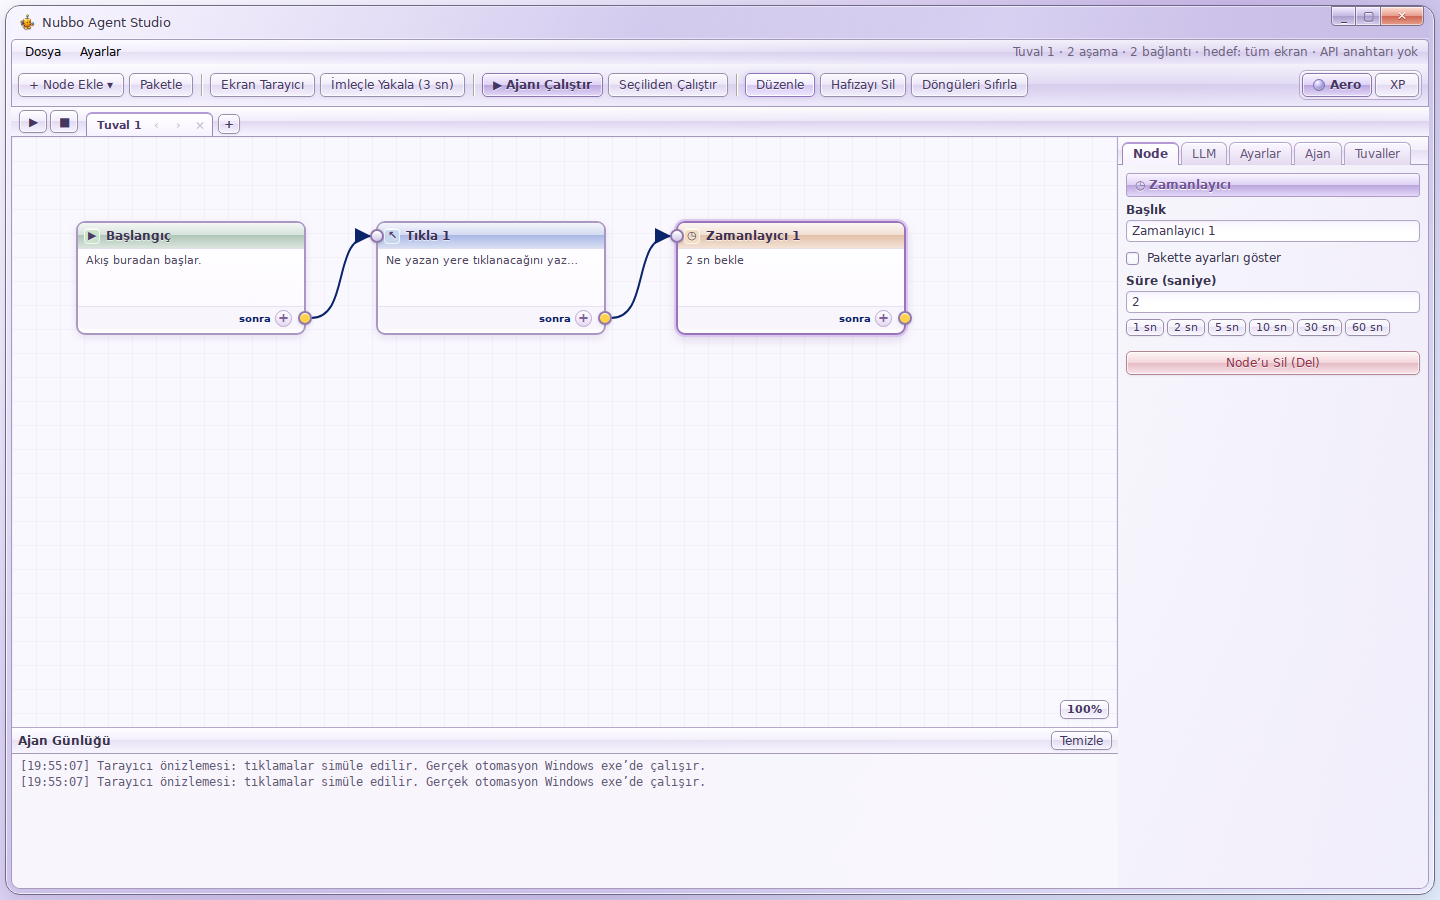
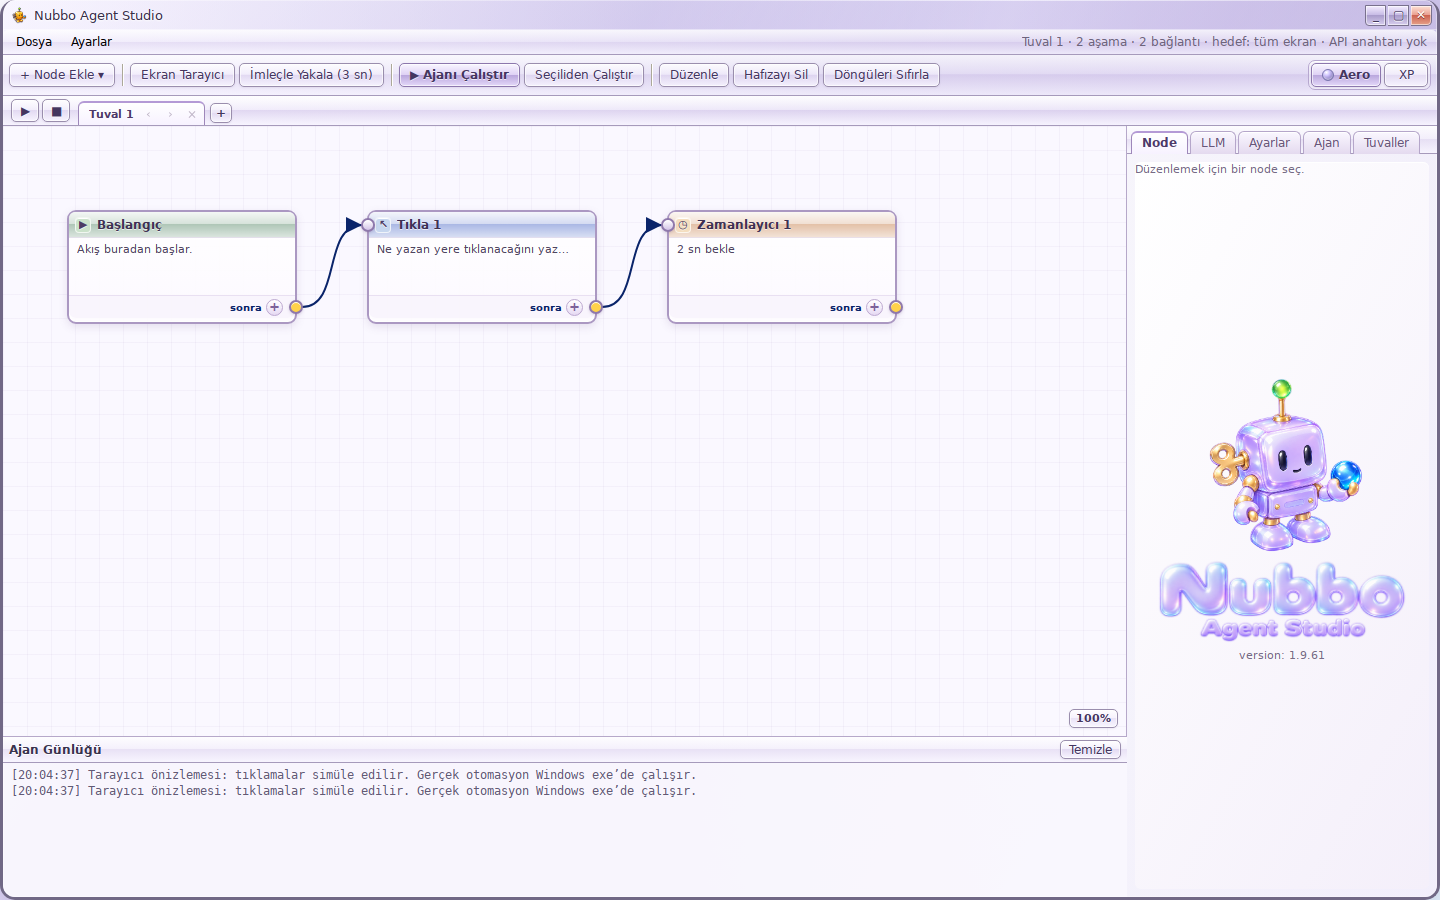
feat(ui): AgentFlow-Aero 3/3 uygulandi - Aero robot ve wordmark, skin ler arasinda paylasilan yerlesim geometrisi (1.9.63)
Kaynak: kullanicinin ikinci Aero paketi AgentFlow-Aero (2), agent-flow-aero.patch (UC commit: [PATCH 1/3] ve [PATCH 2/3] zaten 1.9.62 de uygulandi; [PATCH 3/3] Add Aero robot and wordmark while sharing layout geometry between skins).

UYGULAMA YONTEMI (durust kayit): ust kume patch in DUZ --check i BASARISIZ (docs/aero-reskin/README.md already exists; src/App.tsx patch does not apply) ve TERS --check i de BASARISIZ. ZORLAMADIM; rehberin mantigiyla yalniz 3. commit in bolumunu ayirdim ve BAYT DUZEYINDE (BOM suz UTF-8, LF korunarak) gecici bir patch yazdim: --check 0 -> UYGULANDI -> git diff --check 0. Ilk denemem Out-File ile yazdigi icin dosyayi BOZDU (git diff header lacks filename information); bu yuzden yontemi degistirdim.

GELEN: src/assets/nubbo-aero.png (1,1 MB) + src/assets/nubbo-logo-aero.png (1,5 MB) - Aero robot ve wordmark; src/components/NubboMascot.tsx ve src/components/Hud.tsx tema ile ORTAK YERLESIM GEOMETRISI kullaniyor; src/styles/aero.css (18,2 KB) ve docs/aero-reskin/README.md guncellendi; aero.png/xp.png karsilastirma gorselleri yenilendi.

DOGRULAMA: metin dosyalari (App.tsx, NodeCanvas.tsx, NubboMascot.tsx, aero.css, README.md) referans kopyayla ICERIK OZDE AYNI (fark yalniz SATIR SONU: bu repo CRLF, paket LF - 1.9.62 notundaki duzeltmeyle ayni durum); gorseller (nubbo-aero.png, nubbo-logo-aero.png, aero.png, xp.png) HAM SHA256 ile AYNI.
[…]

Changed region(s): [[0.0, 0.0, 1.0, 1.0], [0.4688, 0.3111, 0.6562, 0.3733], [0.7188, 0.7778, 0.7812, 0.84]]

diff --git a/src/styles/aero.css b/src/styles/aero.css
@@ -1,6 +1,6 @@
 /* Lilac glass skin. Scoped at the document so portals, help and the HUD follow
    the same theme. Node dimensions and canvas transforms stay in xp.css. */
-.theme-picker { margin-left: auto; display: flex; gap: 3px; align-items: center; flex-shrink: 0; }
+.theme-picker { margin-left: auto; display: flex; gap: 3px; align-items: center; flex-shrink: 0; padding: 2px; border: 1px solid transparent; border-radius: 7px; }
 .theme-option { display: inline-flex; align-items: center; justify-content: center; gap: 5px; min-width: 44px; }
 .theme-option.active { outline: 1px solid #597eb1; outline-offset: -3px; font-weight: 700; }
 .theme-orb { width: 12px; height: 12px; border-radius: 50%; border: 1px solid #7774ad; background: radial-gradient(circle at 35% 25%, white, #d2c7ff 30%, #9386c8 65%, #666398); box-shadow: inset 0 -1px 2px #fff9; }
@@ -25,28 +25,28 @@
 }
 :root[data-theme='aero'] body { color: var(--aero-ink); background: #d5ccec; }
 :root[data-theme='aero'] .desktop {
-  padding: 5px;
+  padding: 0;
   background: radial-gradient(ellipse at 5% 0%, #ffffffc9, transparent 55%), radial-gradient(ellipse at 95% 70%, #e1effc, transparent 65%), linear-gradient(125deg, #eeebff, #c9b9e7 60%, #e1edfa);
 }
 :root[data-theme='aero'] .xp-window {
-  border: 1px solid #716886;
+  border: 3px solid #716886;
+  border-top: none;
   border-radius: 15px;
-  padding: 0 5px 5px;
+  padding: 0;
   background: linear-gradient(135deg, #f2edff85, #b9b0df70 40%, #d0c5ec85 80%, #eee8ff99);
   box-shadow: inset 0 0 0 1px #ffffffb3, 0 4px 18px #53477830;
 }
 :root[data-theme='aero'] .titlebar {
-  height: 33px;
+  height: 30px;
   padding-left: 7px;
   color: #373049;
   background: linear-gradient(110deg, #faf7ff70, #c3b8e855 45%, #eeebff66 70%, #c2b6e066);
-  border-bottom: 1px solid #ffffff6b;
+  box-shadow: inset 0 -1px #ffffff6b;
   text-shadow: 0 1px 1px #fff;
 }
 :root[data-theme='aero'] .titlebar h1 { text-shadow: 0 1px 2px #fff; font-weight: 400; }
-:root[data-theme='aero'] .titlebar-controls { gap: 0; align-self: flex-start; }
+:root[data-theme='aero'] .titlebar-controls { gap: 2px; }
 :root[data-theme='aero'] .title-btn {
-  width: 25px; height: 20px;
   border: 1px solid #79718d;
   border-radius: 0;
   color: #423859;
@@ -56,7 +56,7 @@
 }
 :root[data-theme='aero'] .title-btn:first-child { border-radius: 0 0 0 4px; }
 :root[data-theme='aero'] .title-btn + .title-btn { border-left: 0; }
-:root[data-theme='aero'] .title-btn.close { width: 43px; border-radius: 0 0 5px 0; color: #fff; text-shadow: 0 1px #8a392c; background: linear-gradient(#ffe2d6, #e89c8d 49%, #cd6452 50%, #e6a089); }
+:root[data-theme='aero'] .title-btn.close { border-radius: 0 0 5px 0; color: #fff; text-shadow: 0 1px #8a392c; background: linear-gradient(#ffe2d6, #e89c8d 49%, #cd6452 50%, #e6a089); }
 :root[data-theme='aero'] .title-btn:hover { filter: brightness(1.1); }
 :root[data-theme='aero'] .titlebar-test { color: #682c25; background: #fff1e6; border-color: #bd958e; }
 
@@ -65,9 +65,9 @@
   color: var(--aero-ink);
   border-color: var(--aero-line);
 }
-:root[data-theme='aero'] .menubar { border: 1px solid var(--aero-line); border-bottom: 0; border-radius: 5px 5px 0 0; }
+:root[data-theme='aero'] .menubar { border: 0; border-bottom: 1px solid var(--aero-line); border-radius: 5px 5px 0 0; }
 :root[data-theme='aero'] .menubar-status { color: #6d647c; }
-:root[data-theme='aero'] .toolbar { gap: 5px; flex-wrap: wrap; padding: 6px; border-left: 1px solid var(--aero-line); border-right: 1px solid var(--aero-line); }
+:root[data-theme='aero'] .toolbar { gap: 4px; flex-wrap: wrap; padding: 5px 6px; }
 :root[data-theme='aero'] .tb-sep { border-left-color: #beb1d0; border-right-color: #fff; }
 :root[data-theme='aero'] :is(.xp-btn, .seg-btn, .chip, .canvas-zoom, .library-mini, .library-close, .canvas-tab-add, .package-actions .package-action) {
   border: 1px solid #9a8ead;
@@ -87,11 +87,11 @@
 :root[data-theme='aero'] .xp-btn.save { background: linear-gradient(#f6fff8, #dcf0e4 48%, #bfd9ca 49%, #e8f8ee); border-color: #8aa99b; color: #2d6044; }
 :root[data-theme='aero'] :is(.xp-btn.danger, .library-delete) { background: linear-gradient(#fff7f7, #f3d6dc 48%, #e4bac3 49%, #fae5eb); border-color: #b38690; color: #8c3046; }
 :root[data-theme='aero'] .theme-picker { padding: 2px; border: 1px solid #b6a7cf; border-radius: 7px; background: #fff6; box-shadow: inset 0 1px #fff; }
-:root[data-theme='aero'] .theme-option { min-height: 24px; }
+:root[data-theme='aero'] .theme-option { min-height: 23px; }
 :root[data-theme='aero'] .theme-option.active { outline: none; }
 :root[data-theme='aero'] :is(button, input, textarea, select, [contenteditable='true']):focus-visible { outline: 2px solid #9475ba; outline-offset: 2px; }
 
-:root[data-theme='aero'] :is(.dropdown-menu, .ctx-menu, .ramp-menu) { background: #faf8ffdc; border: 1px solid #9f92b4; border-radius: 7px; padding: 3px; box-shadow: 0 5px 18px #51406e33, inset 0 0 0 1px #fff; backdrop-filter: blur(12px); }
+:root[data-theme='aero'] :is(.dropdown-menu, .ctx-menu, .ramp-menu) { background: #faf8ffdc; border: 1px solid #9f92b4; border-radius: 7px; padding: 2px; box-shadow: 0 5px 18px #51406e33, inset 0 0 0 1px #fff; backdrop-filter: blur(12px); }
 :root[data-theme='aero'] .ctx-title { color: #524169; background: linear-gradient(#f6f0ff, #ded2ef); border-radius: 4px; text-shadow: 0 1px #fff; }
 :root[data-theme='aero'] :is(.menubar button:hover, .menubar button.open, .dropdown-menu button:hover, .ctx-menu button:hover, .scan-row.hover, .tree-label:hover) { background: var(--aero-hover); color: #403152; border-radius: 3px; }
 :root[data-theme='aero'] :is(.ctx-menu button:hover small, .dropdown-menu button:hover small, .scan-row.hover .scan-type) { color: #6b587f; }
@@ -102,7 +102,7 @@
 :root[data-theme='aero'] .canvas-tab-x { color: #776383; }
 :root[data-theme='aero'] .canvas-tab-x:hover:not(:disabled) { border-color: #a48bbf; background: #e8dcf7; }
 
-:root[data-theme='aero'] .workspace { border: 1px solid #a99abb; border-top: 0; border-radius: 0 0 9px 9px; overflow: hidden; }
+:root[data-theme='aero'] .workspace { border: 0; border-radius: 0 0 9px 9px; overflow: hidden; }
 :root[data-theme='aero'] .canvas-wrap { border-color: #b6a8ca; }
 /* Background follows the existing grid size/position controlled by zoom/pan. */
 :root[data-theme='aero'] .canvas-scroll {
@@ -181,8 +181,8 @@
 :root[data-theme='aero'] .empty-canvas { color: #9183a4; }
 
 :root[data-theme='aero'] .modal-backdrop { background: #58477540; backdrop-filter: blur(3px); }
-:root[data-theme='aero'] .xp-dialog { border: 1px solid #867499; border-radius: 12px; padding: 0 5px 5px; background: linear-gradient(130deg, #eae2fac9, #c5b6deb8); box-shadow: 0 12px 48px #45345844, inset 0 0 0 1px #fff9; overflow: hidden; }
-:root[data-theme='aero'] .dialog-title { height: 31px; }
+:root[data-theme='aero'] .xp-dialog { border: 3px solid #867499; border-top: none; border-radius: 12px; padding: 0; background: linear-gradient(130deg, #eae2fac9, #c5b6deb8); box-shadow: 0 12px 48px #45345844, inset 0 0 0 1px #fff9; overflow: hidden; }
+:root[data-theme='aero'] .dialog-title { height: 30px; }
 :root[data-theme='aero'] :is(.xp-confirm-body, .xp-confirm-buttons, .scanner-list, .scanner-body, .dialog-status) { background: #faf7ff; color: var(--aero-ink); border-color: #c5b6d9; }
 :root[data-theme='aero'] .xp-confirm-icon { background: radial-gradient(circle at 35% 25%, #fff, #e2d2f7 40%, #ab8aca); border-color: #a589bb; color: #654d7d; }
 :root[data-theme='aero'] .scanner-shot { background: #eee8f6; border-color: #b4a1ca; }
@@ -196,16 +196,16 @@
 /* HUD must remain transparent around its floating card. */
 :root[data-theme='aero'].hud-root, :root[data-theme='aero'].hud-root body { background: transparent; }
 
-:root[data-theme='aero'] ::-webkit-scrollbar { width: 13px; height: 13px; }
+:root[data-theme='aero'] ::-webkit-scrollbar { width: 16px; height: 16px; }
 :root[data-theme='aero'] ::-webkit-scrollbar-track { background: #f4eff9; }
 :root[data-theme='aero'] ::-webkit-scrollbar-thumb { border: 1px solid #bba8cc; border-radius: 5px; background: linear-gradient(90deg, #f9f5ff, #d6c4e8); box-shadow: inset 0 0 0 1px #ffffff8c; }
 :root[data-theme='aero'] ::-webkit-scrollbar-thumb:hover { background: #d3bce8; }
-:root[data-theme='aero'] ::-webkit-scrollbar-button { width: 13px; height: 13px; border-color: #c3b2d2; background: linear-gradient(#fff, #e6d9f3); }
+:root[data-theme='aero'] ::-webkit-scrollbar-button { width: 16px; height: 16px; border-color: #c3b2d2; background: linear-gradient(#fff, #e6d9f3); }
 :root[data-theme='aero'] ::-webkit-scrollbar-corner { background: #f4eff9; }
 @media (prefers-reduced-motion: reduce) {
   :root[data-theme='aero'] :is(.agent-node, .loop-frame, .edge-line) { transition: none; }
 }
-:root[data-theme='aero'] .inspector-kind { background: var(--aero-selected) !important; border: 1px solid #b19bc8; text-shadow: 0 1px #fff; }
+:root[data-theme='aero'] .inspector-kind { background: var(--aero-selected) !important; border: 0; box-shadow: inset 0 0 0 1px #b19bc8; text-shadow: 0 1px #fff; }
 :root[data-theme='aero'] .hud-title { background: var(--aero-selected); }
 :root[data-theme='aero'] .hud-line.on { background: #f8f1ffed; border-color: #baa4ce; }
 :root[data-theme='aero'] :is(.ramp-hint, .ramp-fields label) { color: #715884; }
@@ -213,5 +213,15 @@
 :root[data-theme='aero'] .ramp-stop.hi { background: #8f74ad; border-color: #fff; }
 :root[data-theme='aero'] .pkg-fold-head { background: var(--aero-hover) !important; text-shadow: 0 1px #fff; }
 @media (max-width: 1100px) {
-  :root[data-theme='aero'] .empty-canvas { left: 40px; top: 240px; width: min(440px, calc(100vw - 430px)); border-color: #c3add6; }
+  .empty-canvas { left: 40px; top: 240px; width: min(440px, calc(100vw - 430px)); border-color: #c3add6; }
 }
+
+/* Brand variants occupy the same slots in either skin. Aero is a still image;
+   XP retains its existing animation. No alternate flow or coordinate state. */
+.brand-aero { display: none; }
+:root[data-theme='aero'] .brand-xp { display: none; }
+:root[data-theme='aero'] .brand-aero { display: block; }
+.nubbo-logo-slot { width: 100%; height: 92px; flex-shrink: 0; margin-top: -6px; }
+.nubbo-logo-slot .nubbo-logo { width: 100%; height: 100%; margin: 0; object-fit: contain; }
+:root[data-theme='aero'] :is(.nubbo-mascot, .nubbo-logo, .hud-mascot) { image-rendering: auto; object-fit: contain; }
+:root[data-theme='aero'] .nubbo-mascot { transform: none; }

diff --git a/src/components/NubboMascot.tsx b/src/components/NubboMascot.tsx
@@ -3,6 +3,8 @@ import { version } from '../../package.json'
 import nubbo from '../assets/nubbo.png'
 import still from '../assets/nubbo-still.png'
 import logo from '../assets/nubbo-logo.png'
+import aeroMascot from '../assets/nubbo-aero.png'
+import aeroLogo from '../assets/nubbo-logo-aero.png'
 
 /** Plays the transparent Nubbo loop. Hidden windows show the still frame so the animation stops. */
 export default function NubboMascot() {
@@ -20,7 +22,7 @@ export default function NubboMascot() {
     <div className="nubbo-brand">
       <img
         key={src}
-        className="nubbo-mascot"
+        className="nubbo-mascot brand-xp"
         src={src}
         alt=""
         width={186}
@@ -28,7 +30,11 @@ export default function NubboMascot() {
         draggable={false}
         onError={() => setBroken(true)}
       />
-      <img className="nubbo-logo" src={logo} alt="Nubbo Agent Studio" draggable={false} />
+      <img className="nubbo-mascot brand-aero" src={aeroMascot} alt="" width={186} height={186} draggable={false} />
+      <div className="nubbo-logo-slot">
+        <img className="nubbo-logo brand-xp" src={logo} alt="Nubbo Agent Studio" draggable={false} />
+        <img className="nubbo-logo brand-aero" src={aeroLogo} alt="Nubbo Agent Studio" draggable={false} />
+      </div>
       <p className="nubbo-ver">version: {version}</p>
     </div>
   )

diff --git a/src/components/Hud.tsx b/src/components/Hud.tsx
@@ -1,6 +1,7 @@
 import { useEffect, useState } from 'react'
 import nubbo from '../assets/nubbo.png'
 import still from '../assets/nubbo-still.png'
+import aeroMascot from '../assets/nubbo-aero.png'
 import type { LogLevel } from '../types'
 
 type Status = { level: LogLevel; text: string }
@@ -51,7 +52,8 @@ export default function Hud() {
   return (
     <div className="hud">
       <div className="hud-mascot-slot">
-        <img key={mascot} className="hud-mascot" src={mascot} alt="" draggable={false} />
+        <img key={mascot} className="hud-mascot brand-xp" src={mascot} alt="" draggable={false} />
+        <img className="hud-mascot brand-aero" src={aeroMascot} alt="" draggable={false} />
       </div>
       <div className={`hud-card ${status.level}`}>
         <div className="hud-title">

diff --git a/docs/surum-notu-1.9.63.md b/docs/surum-notu-1.9.63.md
@@ -1,0 +1,39 @@
+# Sürüm notu — 1.9.63 (AgentFlow-Aero 3/3: Aero robot + wordmark)
+
+Kaynak: kullanıcının ikinci Aero paketi `AgentFlow-Aero (2)` — `agent-flow-aero.patch` **üç commit**:
+`[PATCH 1/3]` + `[PATCH 2/3]` (bunlar **1.9.62'de zaten uygulandı** ✓) + **`[PATCH 3/3] Add Aero robot and
+wordmark while sharing layout geometry between skins`** ✓.
+
+## Uygulama yöntemi (dürüst kayıt)
+Üst küme patch'in **düz `--check`'i başarısız** ✗ (`docs/aero-reskin/README.md already exists` ✗,
+`src/App.tsx patch does not apply` ✗) ve **ters `--check`'i de başarısız** ✗ (mevcut ağaç 1./2. commit'lerin
+sonucu ✓ ama 3. commit'in *öncesi* değil ✓). **Zorlamadım** ✗; rehberin mantığıyla yalnız **3. commit'in
+bölümünü** ayırdım ✓ ve **bayt düzeyinde** (BOM'suz UTF-8, LF korunarak ✓) geçici bir patch yazdım ✓:
+`--check` **0** ✓ → **uygulandı** ✓ → `git diff --check` **0** ✓. (İlk denemem `Out-File` ile yazdığım için
+dosyayı **bozdu** ✗ — `git diff header lacks filename information` ✗; bu yüzden yöntemi değiştirdim ✓.)
+
+## Gelen
+- **`src/assets/nubbo-aero.png`** (1,1 MB ✓) + **`src/assets/nubbo-logo-aero.png`** (1,5 MB ✓) — Aero robot
+  ve wordmark ✓.
+- **`src/components/NubboMascot.tsx`** ✓ ve **`src/components/Hud.tsx`** ✓ — tema ile **ortak yerleşim
+  geometrisi** kullanıyor ✓ (skin'ler arasında paylaşılıyor ✓).
+- **`src/styles/aero.css`** ✓ (18,2 KB ✓) ve **`docs/aero-reskin/README.md`** ✓ güncellendi ✓;
+  `aero.png`/`xp.png` karşılaştırma görselleri yenilendi ✓.
+
+## Doğrulama
+- **Metin dosyaları** (`App.tsx`, `NodeCanvas.tsx`, `NubboMascot.tsx`, `aero.css`, `README.md`): referans
+  kopyayla **içerik ÖZDE AYNI** ✓ (fark yalnız **satır sonu** ✓: bu repo CRLF yazıyor ✓, paket LF ✓ —
+  1.9.62 notundaki düzeltmeyle aynı durum ✓).
+- **Görseller**: `nubbo-aero.png`, `nubbo-logo-aero.png`, `aero.png`, `xp.png` → **ham SHA256 ile AYNI** ✓.
+
+## Ölçülen (gerçek Windows)
+`npm run typecheck` ✓ · `npm run build:electron` ✓ · **Vitest 63 dosya / 486 test** ✓ · **beş npm paketi** ✓
+(`test:keys/input/recovery/targeting/stability` ✓) · `pack:win` ✓ · exe hash ✓.
+
+## Doğrulanmayan (dürüst)
+- **Canlı görsel denetim yapılmadı** ✗ — Aero robot/wordmark görünümü, Aero ⇄ XP geçişi, HUD, açılış
+  teması, node/port kayması, Tuvaller/silme uyarısı, paket içine girip çıkma, uzun değişken kutusu,
+  El Kitabı, Ekran Tarayıcı, küçült/büyüt ve Windows ölçeği denenmedi ✗.
+- Rehberin söz ettiği **`npm run test:ui:theme`** ✗ ve **`electron/ui-theme.ts`** ✗ bu pakette de **yok**
+  ✓ (başka bir varyanta ait ✓) → o komut çalıştırılamadı ✗.
+- Gerçek otomasyonun başarısı renderer testinden **çıkarılmadı** ✓.

diff --git a/docs/aero-reskin/README.md b/docs/aero-reskin/README.md
@@ -24,3 +24,9 @@ Browser renderer, 1440 × 900 (Windows desktop automation is not exercised):
 Translucent surfaces blend with the app’s lilac/ice-blue backdrop. This is in-app glass; the main native window stays opaque and resizable. Inputs remain opaque, node bodies keep a high-opacity white backing, and no whole-window opacity is applied to text or controls.
 
 Windows executable packaging and native desktop input were not tested in this Linux environment.
+
+## Aero brand assets
+
+`src/assets/nubbo-aero.png` and `src/assets/nubbo-logo-aero.png` are transparent PNGs generated from the original robot and wordmark with the built-in image generation tool. Prompt direction: preserve the wind-up robot, gold winding key, green antenna and held blue sphere; use glossy lilac glass/pearlescent plastic and icy cyan highlights; preserve the exact two-line text “Nubbo / Agent Studio”. Aero uses the new still mascot in the sidebar and HUD; XP keeps its original animated mascot and logo. The new Aero mascot is not an animation.
+
+Both skins share window, toolbar, canvas, node and brand-slot geometry. Graph positions and viewport state remain in the same React canvas instance; themes do not create another graph, remount the canvas or store their own coordinates. Browser checks compare the full node/canvas/sidebar/log/toolbar bounding rectangles across theme switches.
